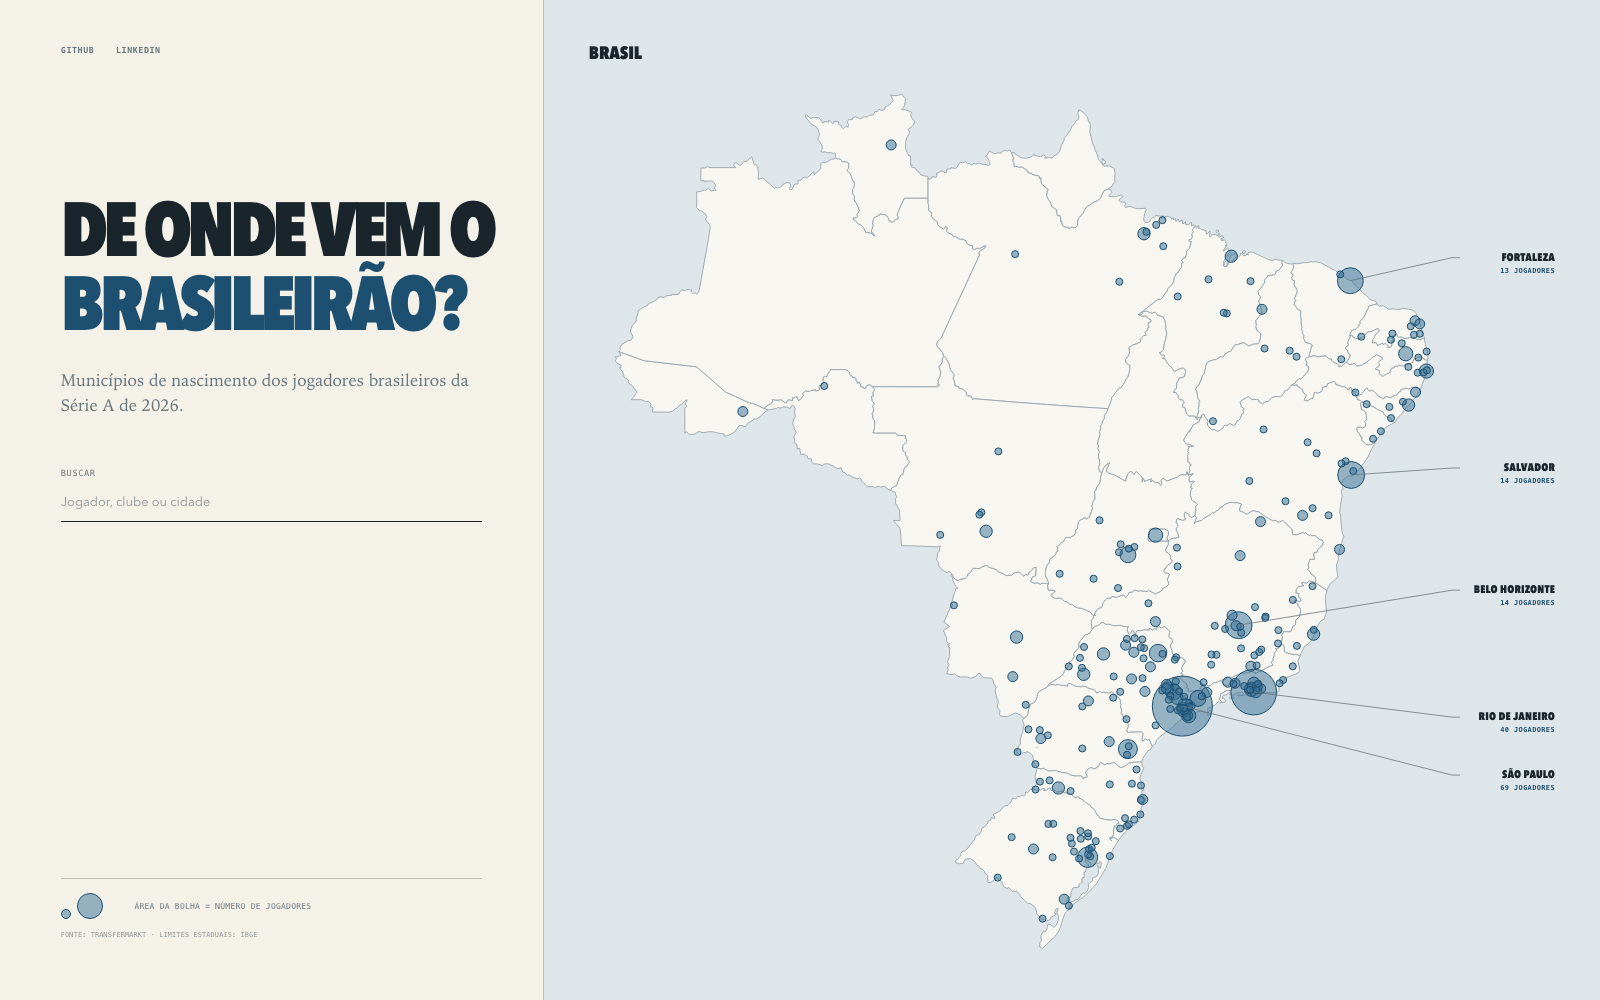
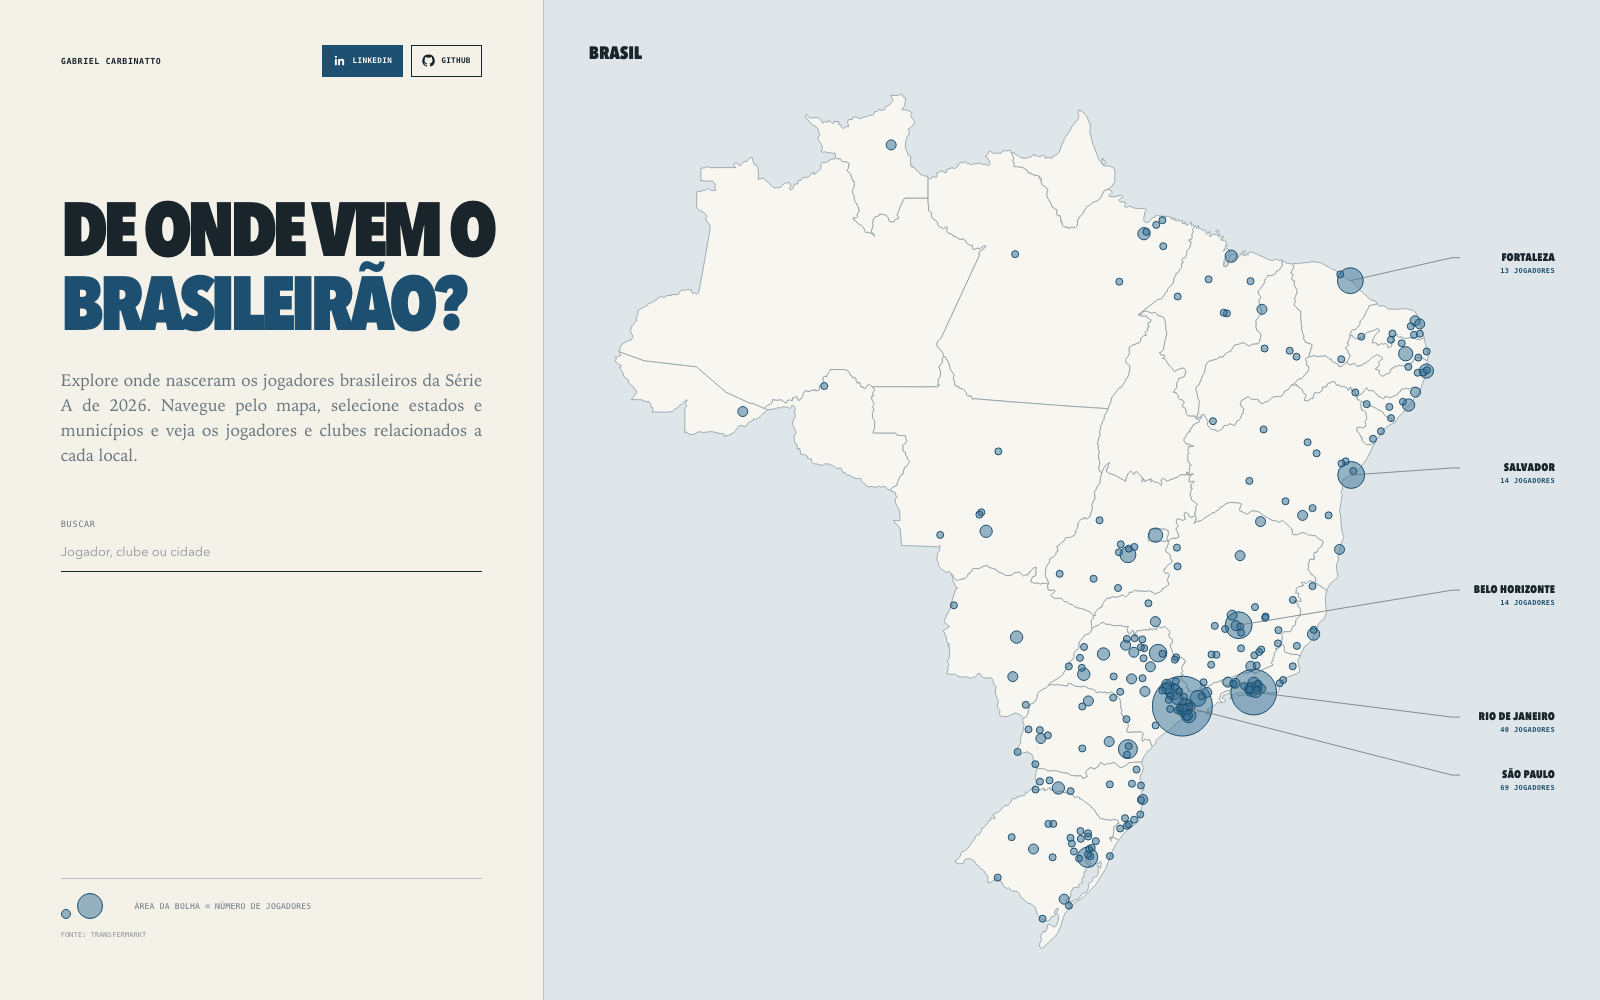
1

diff --git a/index.html b/index.html
@@ -107,30 +107,46 @@
         <h2 class="topic-rule" id="projects-title">Projects</h2>
       </div>
 
-      <div class="project-groups motion">
-        <section class="project-group" aria-labelledby="research-projects-title">
-          <div class="project-group__heading">
-            <h3 id="research-projects-title">Research</h3>
-            <span class="section-note">In preparation</span>
-          </div>
-        </section>
+      <div class="project-grid motion">
+        <a class="project-card" href="https://gcarbs1.github.io/brazilian-league-2026-player-birthplaces/" aria-label="Open Brazilian League Player Birthplaces">
+          <span class="project-card__media">
+            <img src="html/assets/brasileirao-birthplaces-cover.png" alt="Brazil map showing the birthplaces of Brazilian players in the 2026 Série A" width="1600" height="1000">
+          </span>
+          <span class="project-card__body">
+            <strong>Brazilian League Player Birthplaces</strong>
+            <span class="project-card__tools">Python · Pandas · D3.js</span>
+          </span>
+        </a>
 
-        <section class="project-group" aria-labelledby="visualization-projects-title">
-          <div class="project-group__heading">
-            <h3 id="visualization-projects-title">Data Visualization</h3>
-          </div>
-          <div class="project-grid">
-            <a class="project-card" href="https://gcarbs1.github.io/brazilian-league-2026-player-birthplaces/" aria-label="Open De onde vem o Brasileirão?">
-              <span class="project-card__media">
-                <img src="html/assets/brasileirao-birthplaces-cover.png" alt="Brazil map showing the birthplaces of Brazilian players in the 2026 Série A" width="1600" height="1000">
-              </span>
-              <span class="project-card__body">
-                <strong>De onde vem o Brasileirão?</strong>
-                <span class="project-card__tools">Python · Pandas · D3.js</span>
-              </span>
-            </a>
-          </div>
-        </section>
+        <a class="project-card" href="https://gcarbs1.github.io/cbf-match-report-analysis/" aria-label="Open CBF Match Report Analysis">
+          <span class="project-card__media">
+            <img src="html/assets/cbf-match-report-analysis-cover.png" alt="CBF match report analysis dashboard with yellow and red card graphics" width="1600" height="1000">
+          </span>
+          <span class="project-card__body">
+            <strong>CBF Match Report Analysis</strong>
+            <span class="project-card__tools">Python · D3.js · Cloudflare Workers</span>
+          </span>
+        </a>
+
+        <a class="project-card" href="https://gcarbs1.github.io/Color-Palette-Selector/" aria-label="Open Color Palette Selector">
+          <span class="project-card__media">
+            <img src="html/assets/color-palette-selector-cover.png" alt="Color Palette Selector with the Google palette selected" width="1600" height="1000">
+          </span>
+          <span class="project-card__body">
+            <strong>Color Palette Selector</strong>
+            <span class="project-card__tools">JavaScript · SVG · Canvas</span>
+          </span>
+        </a>
+
+        <a class="project-card" href="https://gcarbs1.github.io/skillcorner-bodypose-viewer/" aria-label="Open Visual Exploration of Body Pose Data">
+          <span class="project-card__media">
+            <img src="html/assets/skillcorner-body-pose-cover.png" alt="Visual Exploration of Body Pose Data with a 29-joint pose illustration" width="1600" height="1000">
+          </span>
+          <span class="project-card__body">
+            <strong>Visual Exploration of Body Pose Data</strong>
+            <span class="project-card__tools">Python · JavaScript · Three.js</span>
+          </span>
+        </a>
       </div>
     </section>
 

diff --git a/html/styles.css b/html/styles.css
@@ -383,29 +383,11 @@ h2 {
 
 /* 8. Projetos */
 .projects { padding-block: clamp(110px, 14vw, 190px); }
-.projects__head { margin-bottom: clamp(56px, 7vw, 92px); }
-.project-groups { border-top: 1px solid var(--line); }
-.project-group { border-bottom: 1px solid var(--line); }
-.project-group__heading {
-  display: grid;
-  grid-template-columns: 1fr auto;
-  gap: 24px;
-  align-items: center;
-  min-height: 86px;
-}
-.project-group__heading h3 {
-  margin: 0;
-  font-family: var(--font-display);
-  font-size: clamp(22px, 2.2vw, 34px);
-  font-weight: 700;
-  letter-spacing: -.03em;
-}
-.section-note { color: var(--muted); }
+.projects__head { margin-bottom: clamp(48px, 6vw, 76px); }
 .project-grid {
   display: grid;
-  grid-template-columns: repeat(2, minmax(0, 1fr));
-  gap: clamp(28px, 4vw, 58px);
-  padding: 0 0 clamp(48px, 6vw, 82px);
+  grid-template-columns: repeat(3, minmax(0, 1fr));
+  gap: clamp(24px, 3vw, 42px);
 }
 .project-card {
   display: block;
@@ -436,13 +418,11 @@ h2 {
 }
 .project-card__body {
   display: grid;
-  grid-template-columns: minmax(0, 1fr) auto;
-  gap: 20px;
-  align-items: baseline;
-  padding-top: 18px;
+  gap: 8px;
+  padding-top: 14px;
 }
 .project-card__body strong {
-  font-size: clamp(19px, 1.8vw, 27px);
+  font-size: clamp(17px, 1.35vw, 22px);
   font-weight: 520;
   line-height: 1.2;
   letter-spacing: -.025em;
@@ -502,7 +482,7 @@ h2 {
 
 @media (max-width: 980px) {
   .about { grid-template-columns: 220px 1fr; gap: 54px; }
-  .project-grid { grid-template-columns: 1fr; }
+  .project-grid { grid-template-columns: repeat(2, minmax(0, 1fr)); }
 }
 
 @media (max-width: 720px) {
@@ -541,8 +521,7 @@ h2 {
   .event { min-height: 0; padding: 0 0 42px 12px; }
   .event + .event { padding-left: 12px; }
   .event::before { top: 0; left: -26px; }
-  .project-group__heading { min-height: 76px; }
-  .project-card__body { grid-template-columns: 1fr; gap: 9px; }
+  .project-grid { grid-template-columns: 1fr; }
   .project-card__tools { white-space: normal; }
   .contact__foot { flex-direction: column; }
   .contact-button { width: 100%; }
